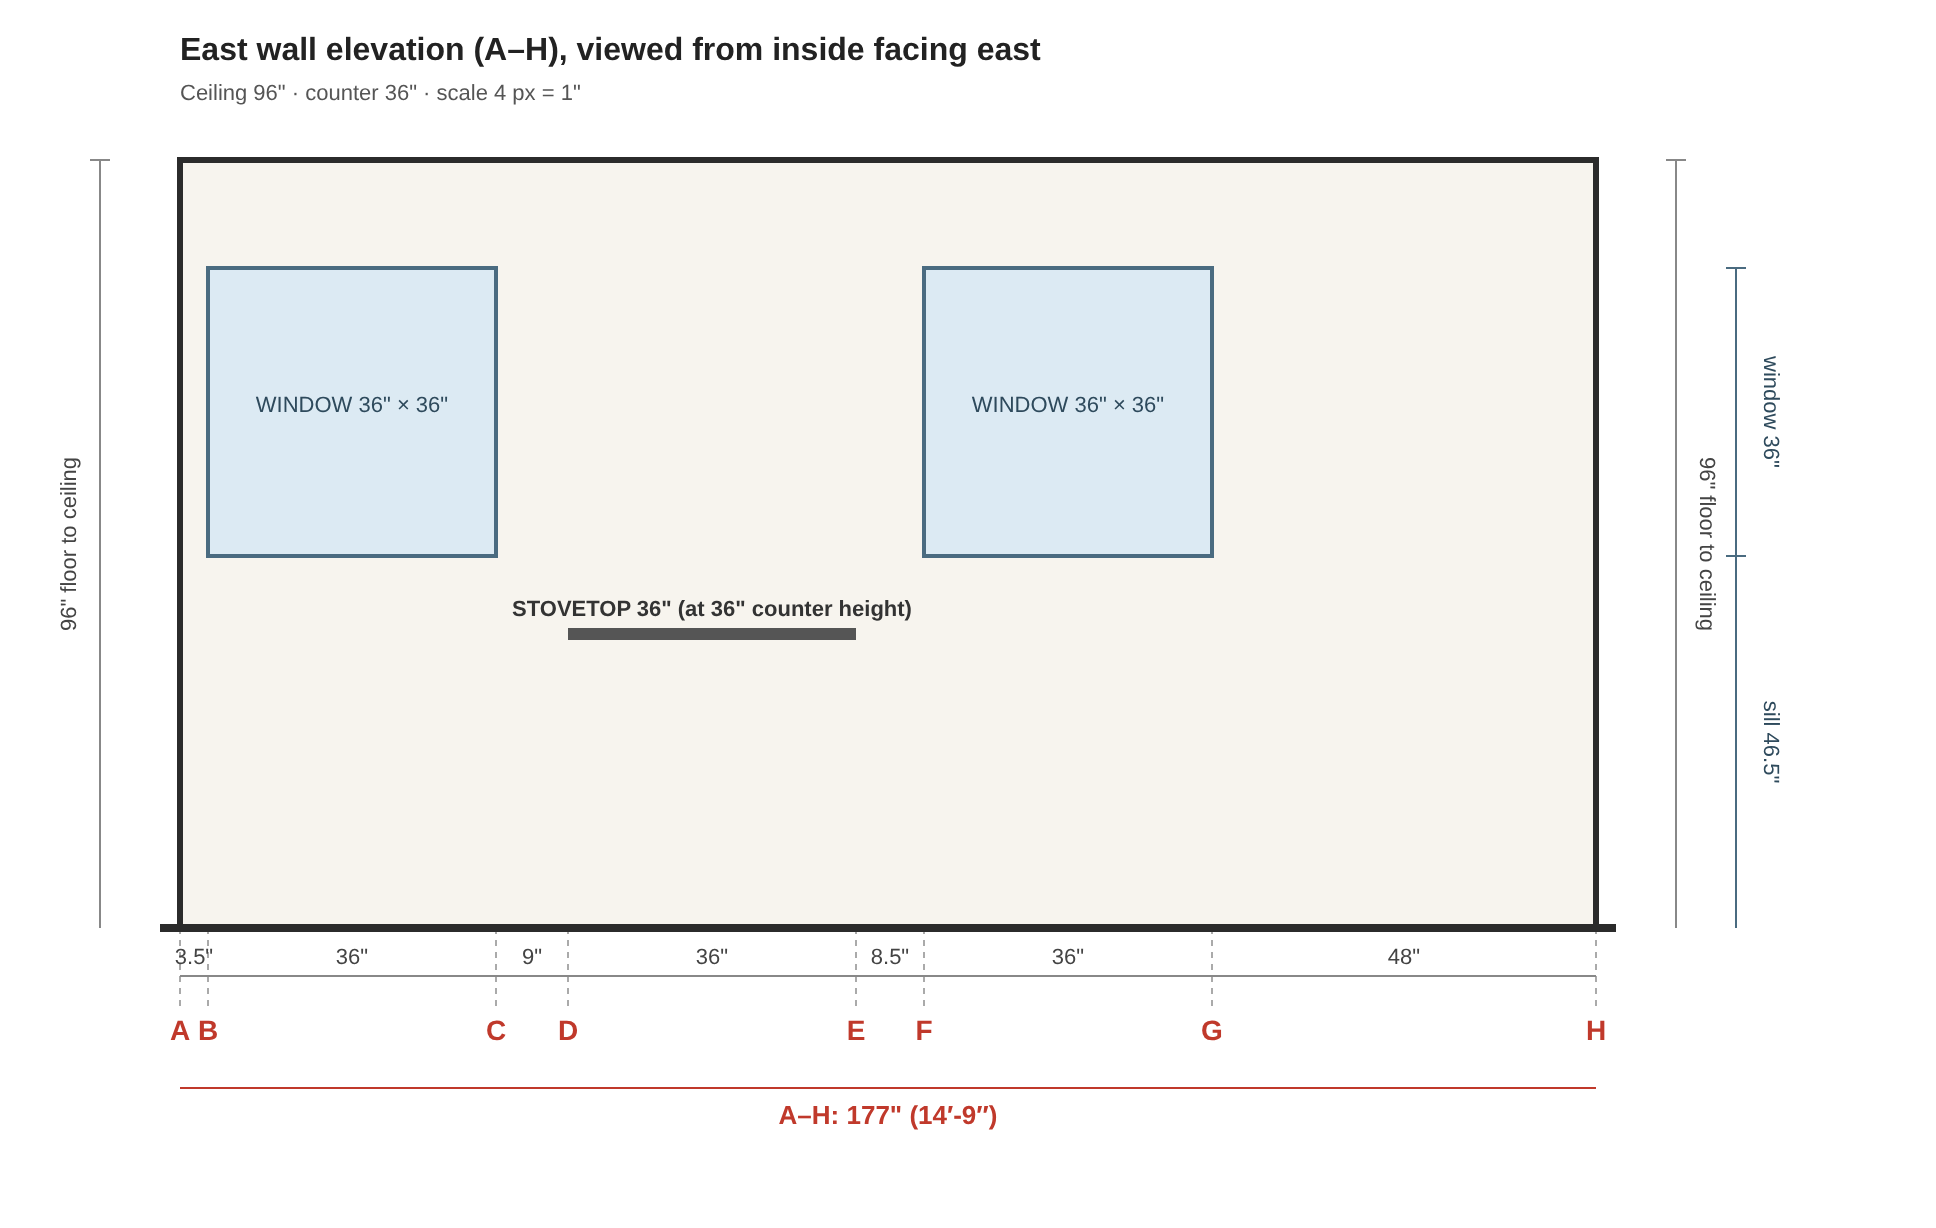
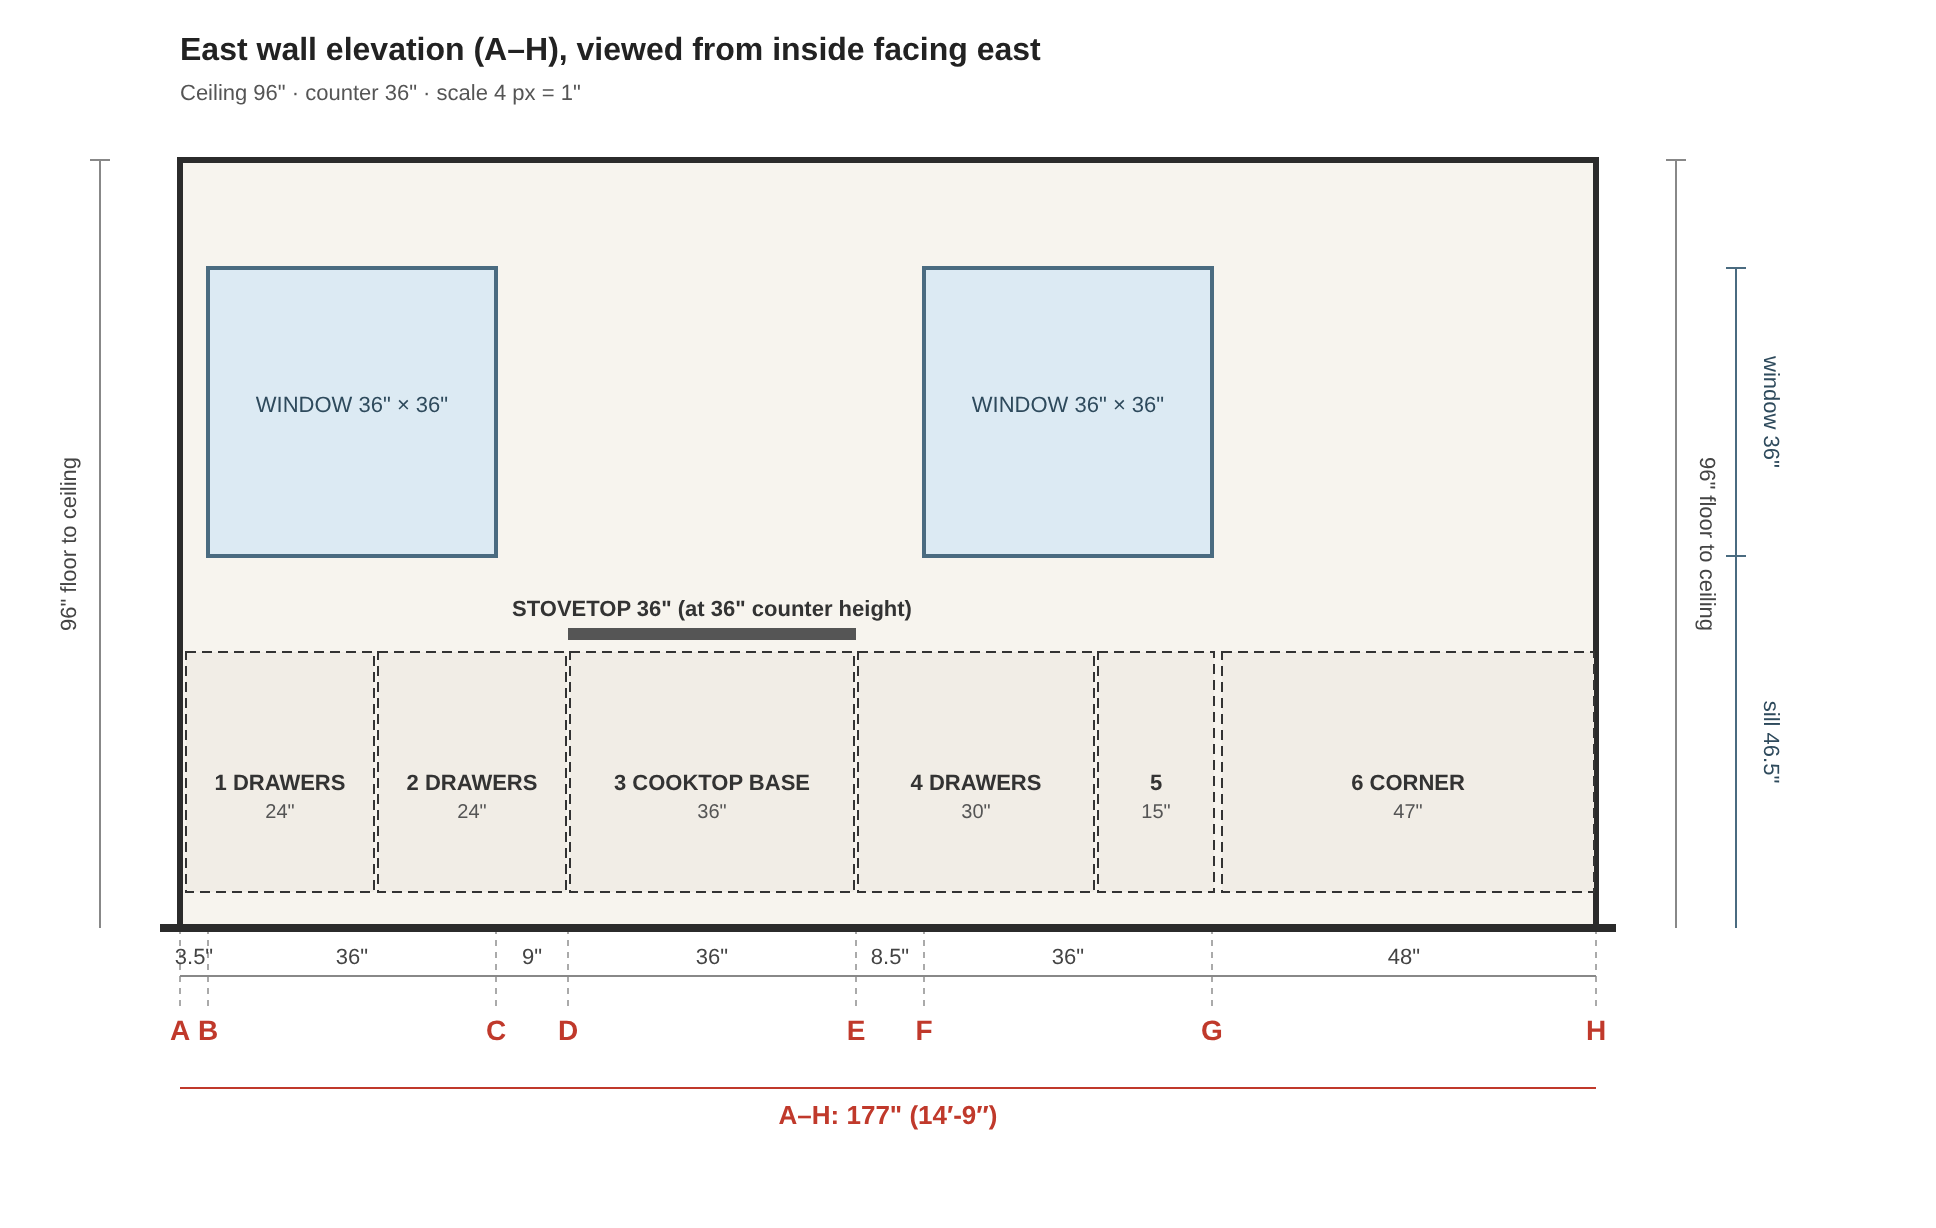
Floor plan: numbered IKEA base cabinet layout for east and south walls, 25 5/8in countertop
Claude-Session: https://claude.ai/code/session_01N1gJVqnW36KpNULQpj6QJQ

diff --git a/floorplans/build_floorplan.py b/floorplans/build_floorplan.py
@@ -58,7 +58,7 @@ MM = 1 / 25.4
 CORNER_PANTRY = None
 # Base corner cabinet under the counter (lazy Susan): corner, size along each wall, cabinet depth
 CORNER_BASE = None
-COUNTERS = []
+COUNTERS = [(["A", "H", "K"], 25.625)]  # IKEA countertop depth 25 5/8"
 
 # Appliances against a wall: (label, from point, to point, width, depth[, note]).
 # Centred on the wall segment between the two points, projecting into the room.
@@ -77,10 +77,19 @@ NO_WINDOW = []
 # Fixtures placed along a wall run, measured in inches from the first point:
 # (kind, label, from, to, offset, width, depth). kind: range | hood | sink | under
 FIXTURES = [
-    ("range", "STOVETOP", "D", "E", 0, 36, 22),
-    ("under", "SINK BASE", "H", "K", 45, 36, 24),  # IKEA 36" sink base
+    # East wall base cabinets (IKEA SEKTION, 24" deep), measured south from A
+    ("under", "1 DRAWERS", "A", "H", 0.5, 24, 24),  # 0.5" filler / cover panel at A
+    ("under", "2 DRAWERS", "A", "H", 24.5, 24, 24),
+    ("under", "3 COOKTOP BASE", "A", "H", 48.5, 36, 24),  # 36" drawer base under the stovetop, D-E
+    ("range", "STOVETOP|3 · 36\" drawer base below", "D", "E", 0, 36, 22),
+    ("under", "4 DRAWERS", "A", "H", 84.5, 30, 24),
+    ("under", "5 PULL-OUT", "A", "H", 114.5, 15, 24),  # 0.5" filler to the corner cabinet
+    ("under", "6 CORNER", "A", "H", 130, 47, 24),  # 47" blind corner base, blind end at H
+    # South wall, measured west from H (0-24" is the corner cabinet's blind end)
+    ("under", "7 DRAWERS", "H", "K", 27, 18, 24),  # after a 3" filler off the corner cabinet
+    ("under", "8 SINK BASE", "H", "K", 45, 36, 24),  # IKEA 36" sink base
     ("sink", "SINK", "H", "K", 46.5, 33, 22),  # 33" sink centred on the base (and under the 32" window)
-    ("under", "TRASH", "H", "K", 81, 18, 24),  # 18" cabinet, double 35 qt pull-out
+    ("under", "9 TRASH", "H", "K", 81, 18, 24),  # 18" cabinet, double 35 qt pull-out
     ("under", "DW", "H", "K", 99, 24, 24),  # dishwasher against wall K, 0.5" filler
 ]
 
@@ -281,6 +290,11 @@ def build():
             vertical = a[1] == b[1]
             rot = f' transform="rotate(-90 {cx} {cy})"' if vertical and kind in ("range", "sink", "onc", "under") else ""
             title, _, sub = name.partition("|")
+            if kind == "under" and title and not sub:
+                # fit the label inside the box: drop the description if it is too long
+                room_px = (y2 - y1) if vertical else (x2 - x1)
+                if len(f'{title} {w}"') * 6.6 > room_px - 6:
+                    title = title.split()[0]
             if title:
                 dy = -4 if sub else 4
                 tx_, ty_ = (cx + dy, cy) if rot else (cx, cy + dy)
@@ -499,7 +513,8 @@ def build_elevation(filename, title, labels, ceil0, ceil1, opts=None):
             t0, t1 = sorted((pos[a_lbl] + sgn * off, pos[a_lbl] + sgn * (off + fw)))
             ch = COUNTER_HEIGHT - 1.5  # cabinet top, under a 1.5" countertop
             o.append(f'  <rect x="{X(t0) + 1}" y="{Y(ch)}" width="{(t1 - t0) * SCALE - 2}" height="{(ch - 4.5) * SCALE}" fill="#f1ede6" stroke="#333" stroke-dasharray="5 3"/>')
-            o.append(f'  <text x="{X((t0 + t1) / 2)}" y="{Y(ch / 2)}" font-size="11" font-weight="700" fill="#333" text-anchor="middle">{name}</text>'
+            label = name if len(name) * 6.6 < (t1 - t0) * SCALE - 6 else name.split()[0]
+            o.append(f'  <text x="{X((t0 + t1) / 2)}" y="{Y(ch / 2)}" font-size="11" font-weight="700" fill="#333" text-anchor="middle">{label}</text>'
                      f'<text x="{X((t0 + t1) / 2)}" y="{Y(ch / 2) + 14}" font-size="10" fill="#555" text-anchor="middle">{fw:g}"</text>')
             continue
         sgn = 1 if pos[b_lbl] > pos[a_lbl] else -1
